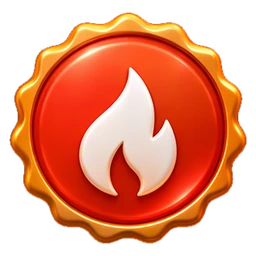
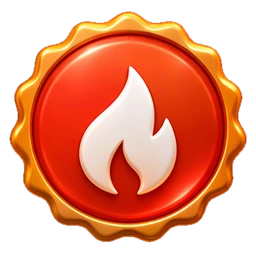
fix(mobile): photo picker in the APK, back gesture closes the pond, cleaner medals
- The WebView now answers file inputs: Camera opens the camera (saved through a
  FileProvider), Gallery opens the photo picker; the photo then uploads to the
  Supabase avatars bucket as before.
- Android back (button or edge gesture, also on Android 16) asks the page first;
  the pond slides away.
- Medal rim layers are a solid colour in the badge's outline, so the logo is not
  repeated while it turns. Badges re-cut with a stricter white threshold so
  bright rim edges are kept.

diff --git a/mobile/src/components/BadgeModel.tsx b/mobile/src/components/BadgeModel.tsx
@@ -143,17 +143,34 @@ function ImageMedal({ id, earned, size }: { id: string; earned: boolean; size: n
     <div ref={stage} className="grid cursor-grab place-items-center active:cursor-grabbing" style={{ width: size, height: size, perspective: size * 4 }}>
       <div ref={rotor} className="relative" style={{ width: art, height: art, transformStyle: 'preserve-3d' }}>
         {Array.from({ length: LAYERS + 1 }, (_, i) => {
-          const face = i === 0 || i === LAYERS
+          const z = `translateZ(${depth / 2 - (i / LAYERS) * depth}px)`
+          // The two faces are the picture; the layers between are a plain rim in the badge's own outline.
+          // (Drawing the picture on every layer showed the logo many times over while it turned.)
+          if (i === 0 || i === LAYERS)
+            return (
+              <img
+                key={i}
+                src={`/badges/${id}.webp`}
+                alt=""
+                draggable={false}
+                className="pointer-events-none absolute inset-0 h-full w-full select-none"
+                style={{ transform: z + (i === LAYERS ? ' rotateY(180deg)' : ''), filter: grey.trim() || undefined }}
+              />
+            )
           return (
-            <img
+            <div
               key={i}
-              src={`/badges/${id}.webp`}
-              alt=""
-              draggable={false}
-              className="pointer-events-none absolute inset-0 h-full w-full select-none"
+              aria-hidden
+              className="pointer-events-none absolute inset-0"
               style={{
-                transform: `translateZ(${depth / 2 - (i / LAYERS) * depth}px)${i === LAYERS ? ' rotateY(180deg)' : ''}`,
-                filter: (face ? '' : 'brightness(.55) sepia(.35)') + grey || undefined,
+                transform: z,
+                background: earned ? '#8A5A1E' : '#8C8580',
+                WebkitMaskImage: `url(/badges/${id}.webp)`,
+                maskImage: `url(/badges/${id}.webp)`,
+                WebkitMaskSize: '100% 100%',
+                maskSize: '100% 100%',
+                // Shrunk a hair, so the rim never peeks out past the faces' soft edges.
+                scale: '0.985',
               }}
             />
           )
@@ -162,7 +179,13 @@ function ImageMedal({ id, earned, size }: { id: string; earned: boolean; size: n
         <div
           aria-hidden
           className="medal-shine pointer-events-none absolute inset-0"
-          style={{ transform: `translateZ(${depth / 2 + 0.5}px)`, WebkitMaskImage: `url(/badges/${id}.webp)`, maskImage: `url(/badges/${id}.webp)`, WebkitMaskSize: '100% 100%', maskSize: '100% 100%' }}
+          style={{
+            transform: `translateZ(${depth / 2 + 0.5}px)`,
+            WebkitMaskImage: `url(/badges/${id}.webp)`,
+            maskImage: `url(/badges/${id}.webp)`,
+            WebkitMaskSize: '100% 100%',
+            maskSize: '100% 100%',
+          }}
         />
       </div>
     </div>
@@ -172,7 +195,12 @@ function ImageMedal({ id, earned, size }: { id: string; earned: boolean; size: n
 /** Light rays and sparkles that burst behind an earned medal as it arrives, then settle into a soft glow. */
 function Burst({ size }: { size: number }) {
   const sparks = [
-    [-0.38, -0.3, 0.55], [0.4, -0.22, 0.7], [-0.42, 0.25, 0.85], [0.36, 0.34, 0.6], [0.05, -0.46, 0.95], [-0.08, 0.47, 0.75],
+    [-0.38, -0.3, 0.55],
+    [0.4, -0.22, 0.7],
+    [-0.42, 0.25, 0.85],
+    [0.36, 0.34, 0.6],
+    [0.05, -0.46, 0.95],
+    [-0.08, 0.47, 0.75],
   ]
   return (
     <div aria-hidden className="pointer-events-none absolute inset-0 grid place-items-center">
@@ -288,11 +316,7 @@ export function BadgeModel({ id, earned, hint, size = 220 }: { id: string; earne
     <>
       <div className="relative grid place-items-center">
         {earned && <Burst size={size} />}
-        {GLB.has(id) && !glbFailed ? (
-          <GlbMedal id={id} earned={earned} size={size} onFail={fail} />
-        ) : (
-          <ImageMedal id={id} earned={earned} size={size} />
-        )}
+        {GLB.has(id) && !glbFailed ? <GlbMedal id={id} earned={earned} size={size} onFail={fail} /> : <ImageMedal id={id} earned={earned} size={size} />}
       </div>
       {hint && <span className="text-[12px] font-medium text-ink3">{hint}</span>}
     </>

diff --git a/mobile/src/screens/Pond.tsx b/mobile/src/screens/Pond.tsx
@@ -488,6 +488,29 @@ export function Pond({ pond, setPond, onExit }: { pond: PondState; setPond: (p: 
     el.style.transform = `translateY(-50%) scale(${0.6 + 0.4 * p})`
     el.dataset.armed = p >= 1 ? 'yes' : 'no'
   }
+  // Slides the pond off to the right, from `dx` px, then leaves. Also what Android's back gesture does
+  // (MainActivity asks window.__bataaBack first): edge swipes belong to the system there, not to the page.
+  const leaving = useRef(false)
+  const slideAway = (dx = 0) => {
+    const node = root.current
+    if (!node || leaving.current) return
+    leaving.current = true
+    sound.playClick(360)
+    node.animate([{ transform: `translateX(${dx}px)` }, { transform: 'translateX(105%)' }], {
+      duration: 260,
+      easing: 'cubic-bezier(.4,0,.2,1)',
+      fill: 'forwards',
+    }).onfinish = onExit
+  }
+  useEffect(() => {
+    window.__bataaBack = () => {
+      slideAway()
+      return true
+    }
+    return () => {
+      delete window.__bataaBack
+    }
+  })
   const swipeStart = (e: RPointerEvent<HTMLDivElement>) => {
     const edge = e.clientX < 40
     const blocked = (e.target as HTMLElement).closest(edge ? '[role=dialog]' : '[data-slot],[data-bag],button,[role=dialog]')
@@ -520,12 +543,7 @@ export function Pond({ pond, setPond, onExit }: { pond: PondState; setPond: (p: 
     const node = root.current
     if (backHint.current) backHint.current.style.opacity = '0'
     if (dx > CLOSE_AT || (dx > 20 && s.v > 0.45)) {
-      sound.playClick(360)
-      node.animate([{ transform: `translateX(${dx}px)` }, { transform: 'translateX(105%)' }], {
-        duration: 260,
-        easing: 'cubic-bezier(.4,0,.2,1)',
-        fill: 'forwards',
-      }).onfinish = onExit
+      slideAway(dx)
     } else {
       node.style.transition = 'transform 300ms cubic-bezier(.65,0,.35,1)'
       node.style.transform = ''

diff --git a/mobile/src/lib/account.ts b/mobile/src/lib/account.ts
@@ -34,6 +34,8 @@ declare global {
   interface Window {
     BataaNative?: Bridge
     __bataaGoogle?: (token: string | null, error: string | null) => void
+    /** Android back (MainActivity): true when the page handled it. */
+    __bataaBack?: () => boolean
   }
 }
 
@@ -142,7 +144,9 @@ export function useCloudSync(session: Session | null, p: Progress, load: (next: 
       if (remote && score(remote) > score(live.current)) load({ ...remote, lang: live.current.lang, photo: live.current.photo })
       // Who they are, from Google, unless they already set it here.
       const meta = session!.user.user_metadata ?? {}
-      const name = String(meta.full_name ?? meta.name ?? '').trim().slice(0, 30)
+      const name = String(meta.full_name ?? meta.name ?? '')
+        .trim()
+        .slice(0, 30)
       const base = remote && score(remote) > score(live.current) ? remote : live.current
       if (!base.name && name) patch({ name })
       if (!live.current.photo && (meta.bataa_photo || meta.avatar_url || meta.picture)) {

diff --git a/mobile/android/manual/src/com/bataa/app/MainActivity.java b/mobile/android/manual/src/com/bataa/app/MainActivity.java
@@ -1,6 +1,12 @@
 package com.bataa.app;
 
 import android.app.Activity;
+import java.io.File;
+import androidx.core.content.FileProvider;
+import android.webkit.WebChromeClient;
+import android.webkit.ValueCallback;
+import android.provider.MediaStore;
+import android.window.OnBackInvokedDispatcher;
 import android.content.ActivityNotFoundException;
 import android.content.Intent;
 import android.graphics.Color;
@@ -88,6 +94,7 @@ public final class MainActivity extends Activity {
         settings.setTextZoom(100);
 
         webView.setWebViewClient(new LocalContentClient());
+        webView.setWebChromeClient(new PhotoChooser());
         // Native Google sign-in for the web app (see GoogleSignIn below). Only app.local pages load in this
         // WebView; every other link opens in the browser, so no outside page can reach the bridge.
         webView.addJavascriptInterface(new NativeBridge(), "BataaNative");
@@ -105,6 +112,9 @@ public final class MainActivity extends Activity {
             return insets;
         });
 
+        if (Build.VERSION.SDK_INT >= 33) {
+            getOnBackInvokedDispatcher().registerOnBackInvokedCallback(OnBackInvokedDispatcher.PRIORITY_DEFAULT, this::handleBack);
+        }
         String callback = authCallbackUrl(getIntent());
         if (callback != null) {
             webView.loadUrl(callback);
@@ -144,14 +154,26 @@ public final class MainActivity extends Activity {
         super.onSaveInstanceState(outState);
     }
 
+    /**
+     * Back (button or edge gesture) asks the web app first: window.__bataaBack() returns true when it handled
+     * it (the pond slides away). Otherwise the page goes back, or the app goes to the background.
+     */
+    private void handleBack() {
+        if (webView == null) {
+            moveTaskToBack(true);
+            return;
+        }
+        webView.evaluateJavascript("String(!!(window.__bataaBack && window.__bataaBack()))", value -> {
+            if ("\"true\"".equals(value)) return;
+            if (webView.canGoBack()) webView.goBack();
+            else moveTaskToBack(true);
+        });
+    }
+
     @Override
     @SuppressWarnings("deprecation")
     public void onBackPressed() {
-        if (webView != null && webView.canGoBack()) {
-            webView.goBack();
-            return;
-        }
-        super.onBackPressed();
+        handleBack();
     }
 
     @Override
@@ -161,6 +183,66 @@ public final class MainActivity extends Activity {
             webView = null;
         }
         super.onDestroy();
+    }
+
+    /**
+     * Profile photos: a WebView ignores <input type="file"> unless the app answers it. An input with `capture`
+     * (the Camera button) opens the camera, which saves into our cache through the FileProvider; the other
+     * (Gallery) opens Android's photo picker. The picked picture goes back to the page, which crops it and
+     * uploads it to Supabase Storage.
+     */
+    private static final int PICK_PHOTO = 41;
+    private ValueCallback<Uri[]> photoCallback;
+    private Uri cameraPhoto;
+
+    private final class PhotoChooser extends WebChromeClient {
+        @Override
+        public boolean onShowFileChooser(WebView view, ValueCallback<Uri[]> callback, FileChooserParams params) {
+            if (photoCallback != null) photoCallback.onReceiveValue(null);
+            photoCallback = callback;
+            cameraPhoto = null;
+            Intent intent;
+            if (params.isCaptureEnabled()) {
+                try {
+                    File dir = new File(getCacheDir(), "camera");
+                    if (!dir.exists() && !dir.mkdirs()) throw new IOException("no camera folder");
+                    File file = File.createTempFile("photo", ".jpg", dir);
+                    cameraPhoto = FileProvider.getUriForFile(MainActivity.this, "com.bataa.app.files", file);
+                } catch (IOException e) {
+                    finishPhoto(null);
+                    return true;
+                }
+                intent = new Intent(MediaStore.ACTION_IMAGE_CAPTURE)
+                    .putExtra(MediaStore.EXTRA_OUTPUT, cameraPhoto)
+                    .addFlags(Intent.FLAG_GRANT_WRITE_URI_PERMISSION | Intent.FLAG_GRANT_READ_URI_PERMISSION);
+            } else if (Build.VERSION.SDK_INT >= 33) {
+                intent = new Intent(MediaStore.ACTION_PICK_IMAGES);
+            } else {
+                intent = new Intent(Intent.ACTION_GET_CONTENT).addCategory(Intent.CATEGORY_OPENABLE).setType("image/*");
+            }
+            try {
+                startActivityForResult(intent, PICK_PHOTO);
+            } catch (ActivityNotFoundException e) {
+                finishPhoto(null);
+            }
+            return true;
+        }
+    }
+
+    private void finishPhoto(Uri[] result) {
+        if (photoCallback != null) photoCallback.onReceiveValue(result);
+        photoCallback = null;
+    }
+
+    @Override
+    @SuppressWarnings("deprecation")
+    protected void onActivityResult(int requestCode, int resultCode, Intent data) {
+        if (requestCode != PICK_PHOTO) {
+            super.onActivityResult(requestCode, resultCode, data);
+            return;
+        }
+        Uri picked = resultCode != RESULT_OK ? null : cameraPhoto != null ? cameraPhoto : data != null ? data.getData() : null;
+        finishPhoto(picked == null ? null : new Uri[] { picked });
     }
 
     /** What the web app can ask of Android. */

diff --git a/mobile/design/badges/cut_badges.py b/mobile/design/badges/cut_badges.py
@@ -20,8 +20,8 @@ NAMES = [
     "streak-7", "xp-50", "xp-100", "course",
 ]
 ROW_PAD = 40
-NEAR_WHITE = 235
-THRESH = 30
+NEAR_WHITE = 244
+THRESH = 12
 CANVAS = 256
 FIT = 240
 MARKER = (0, 255, 0)
